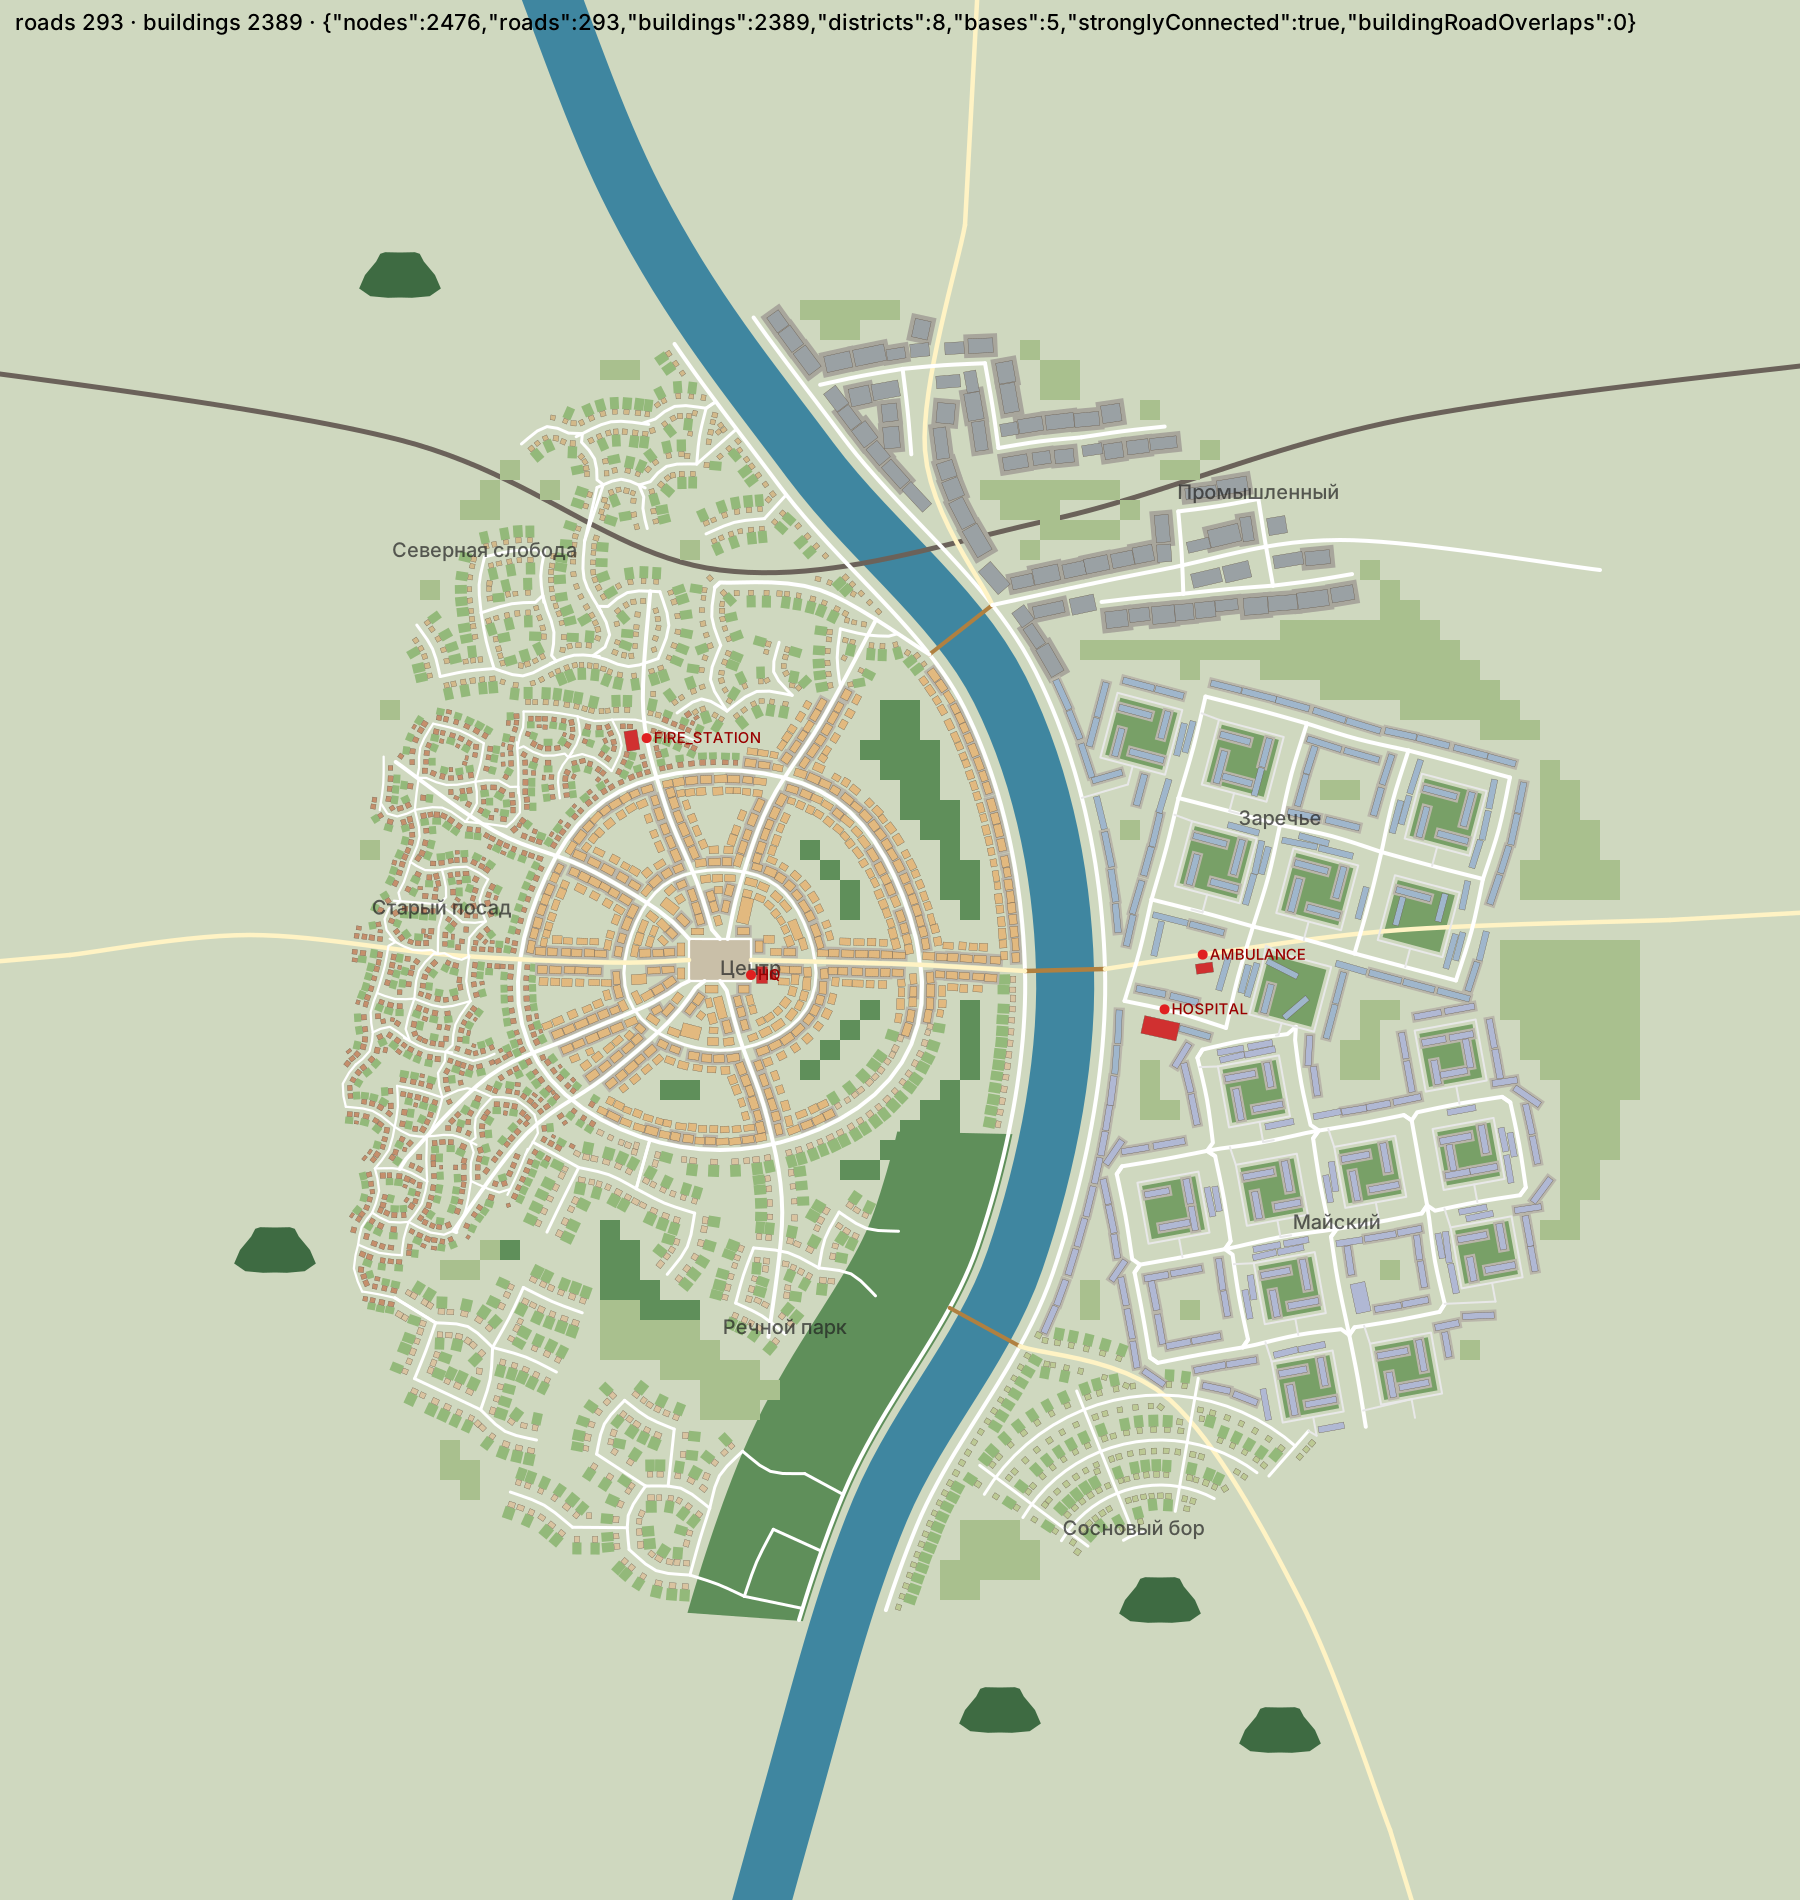
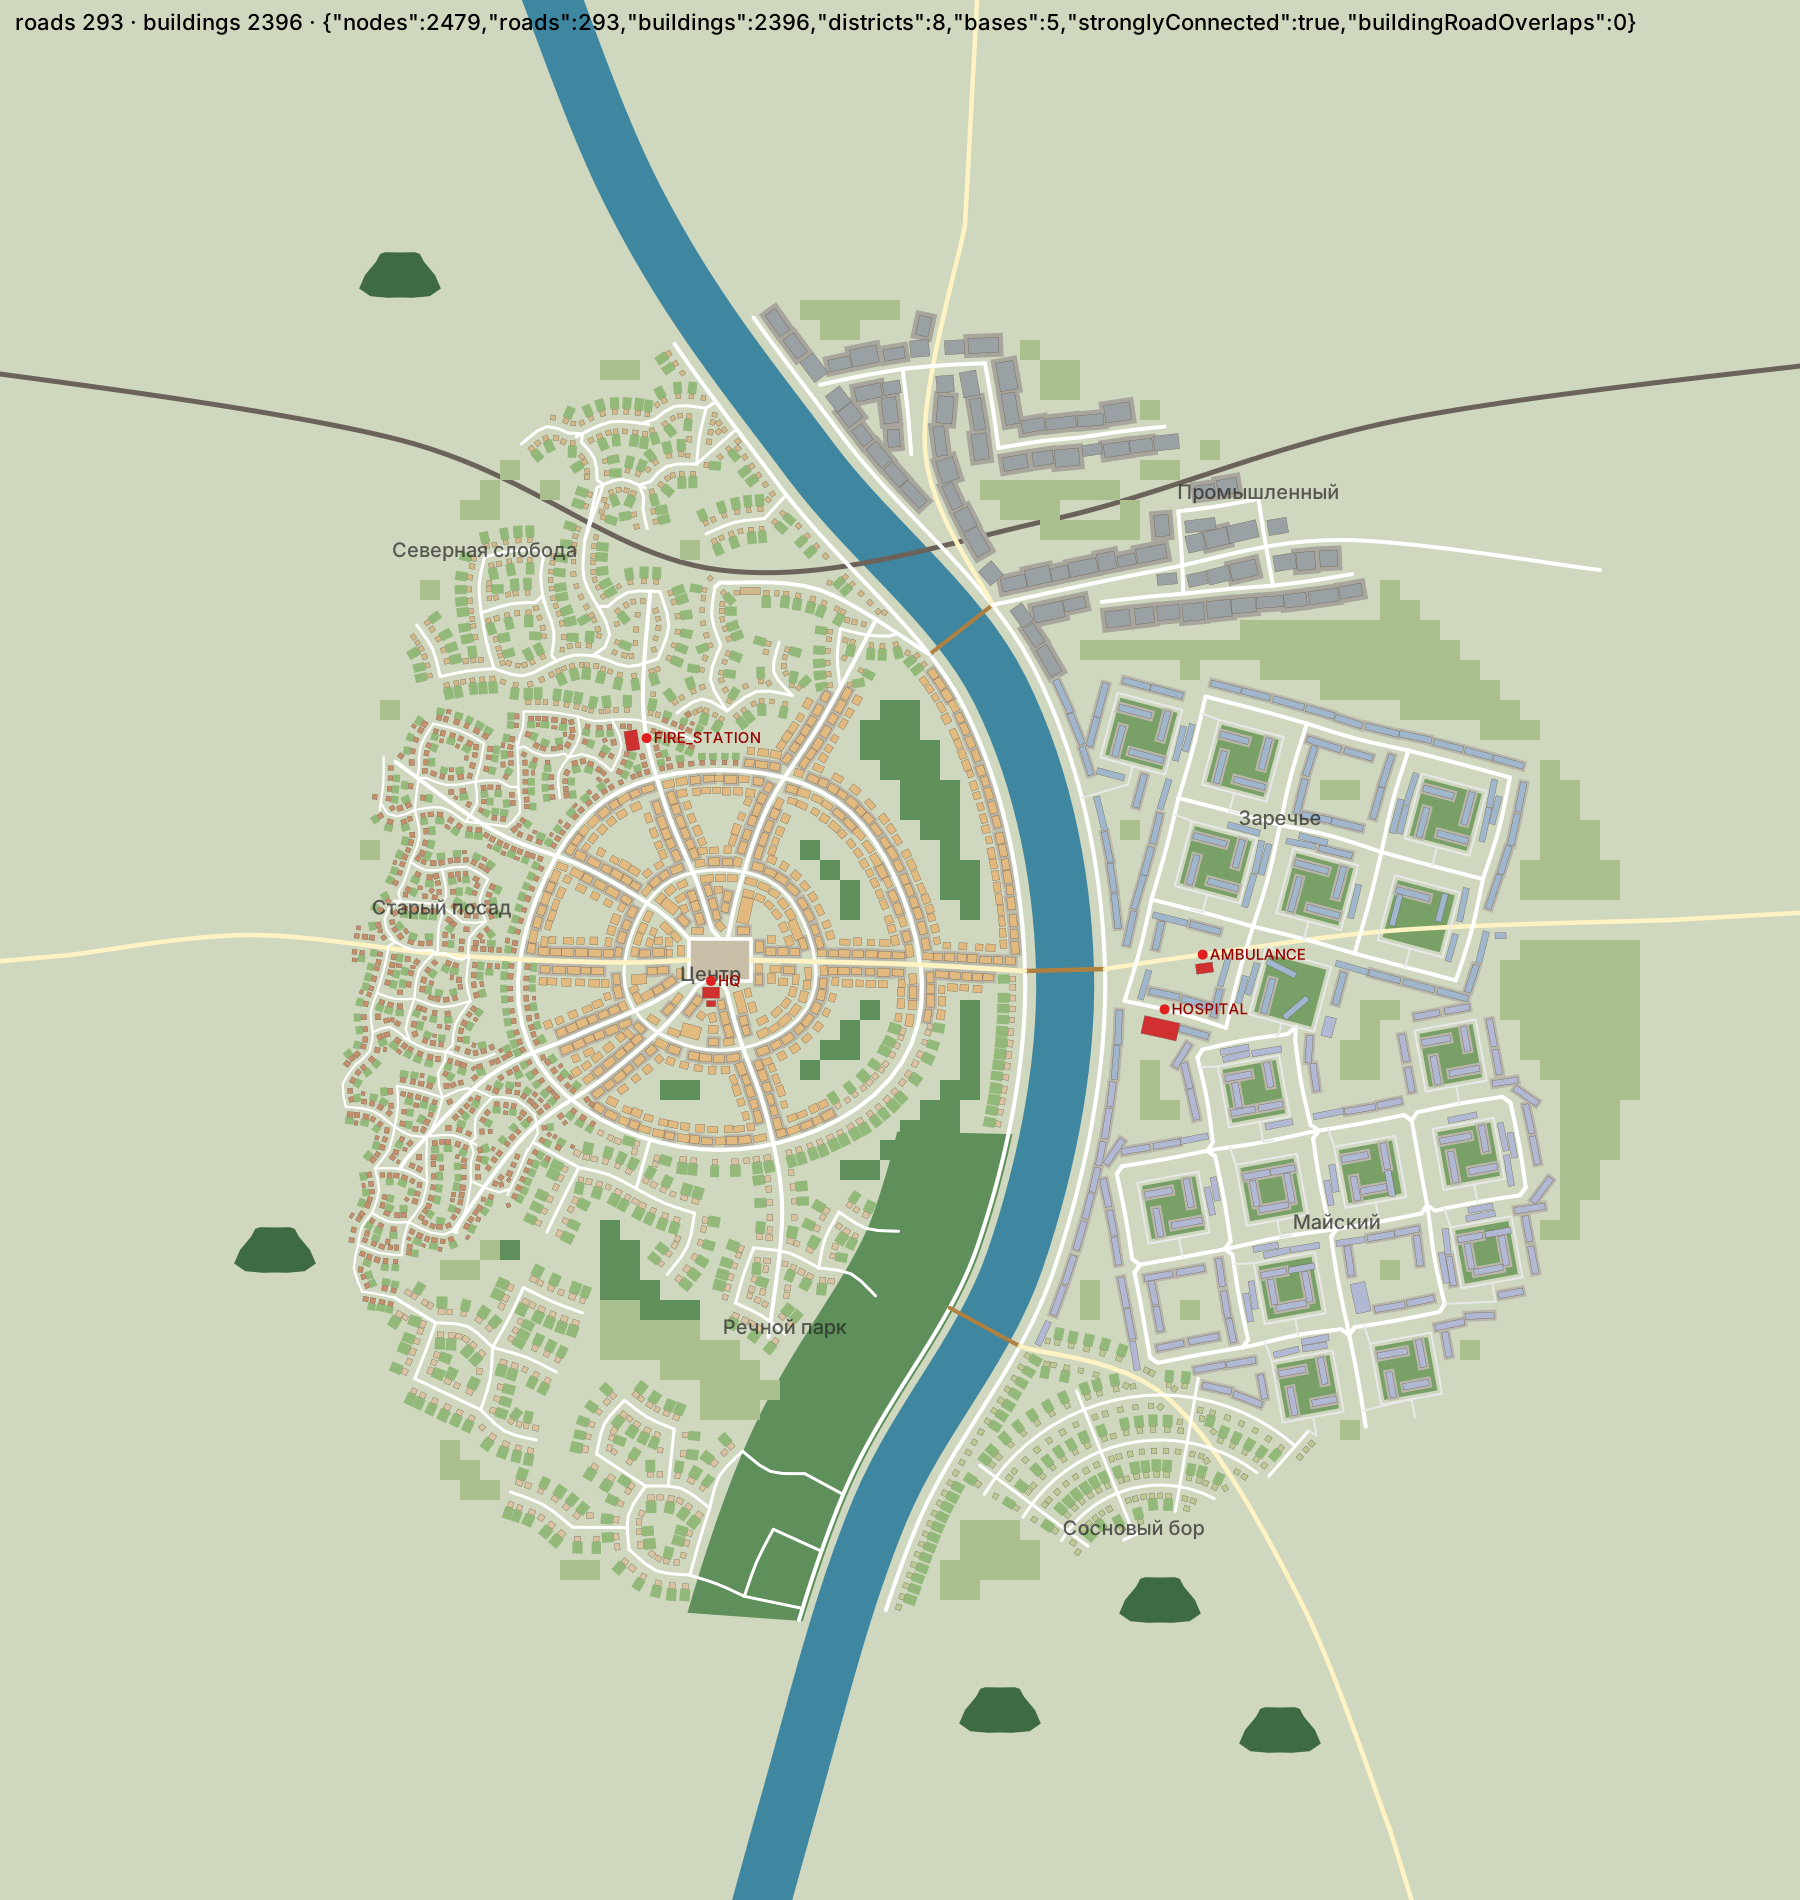
City 2.0 C4: signs over named buildings, every civic building placed; JS 644/644
Claude-Session: https://claude.ai/code/session_01AicvKwTeMeFXxuA7V8QUjv

diff --git a/COLLAB_LOG.md b/COLLAB_LOG.md
@@ -16,6 +16,14 @@
 
 ---
 
+## 2026-10-22 23:55 Tallinn · Claude · ветка claude/release-m
+
+- **«Город 2.0»: вывески (C4).** У именованных зданий города — вывеска над крышей (`scripts/civic_signs.gd`, данные `assets/signs.json` из плана): Железнодорожный вокзал, Автовокзал, Ратуша, Городской музей, две школы, Церковь, Рынок, ТЦ «Майский», Бар «Мост», Лесопильный завод, Депо, АЗС. Цвет обводки по назначению; видны только вблизи (до ~600 м от камеры), чтобы в виде города не было каши — там говорят мачты служб.
+- **План:** раньше не вставали вокзал, лесопилка, АЗС и школа «Заречье» (не находилось места) — теперь у каждого несколько мест-кандидатов, все 19 именованных зданий на карте; вокзал может стоять ближе к путям. Данные города перегенерированы (цепочка `release-c2` обновлена, хеш данных в тесте).
+- **Конвейер:** prepare теперь сам накладывает C3 (JS-патч участка + знак ИВС) и C4 (вывески) — один запуск даёт полный релиз.
+- **Проверки:** JS 644/644; `audit_migration` 54/54 (+`verify_civic_signs`), пригород, машины, движение PASS, две смены 7/7; рендер площади с вывесками.
+- **Статус:** push → CI APK 134, публикация отдельной записью.
+
 ## 2026-10-22 23:20 Tallinn · Claude · ветка claude/release-m
 
[1 lines of base64/hex data omitted]
